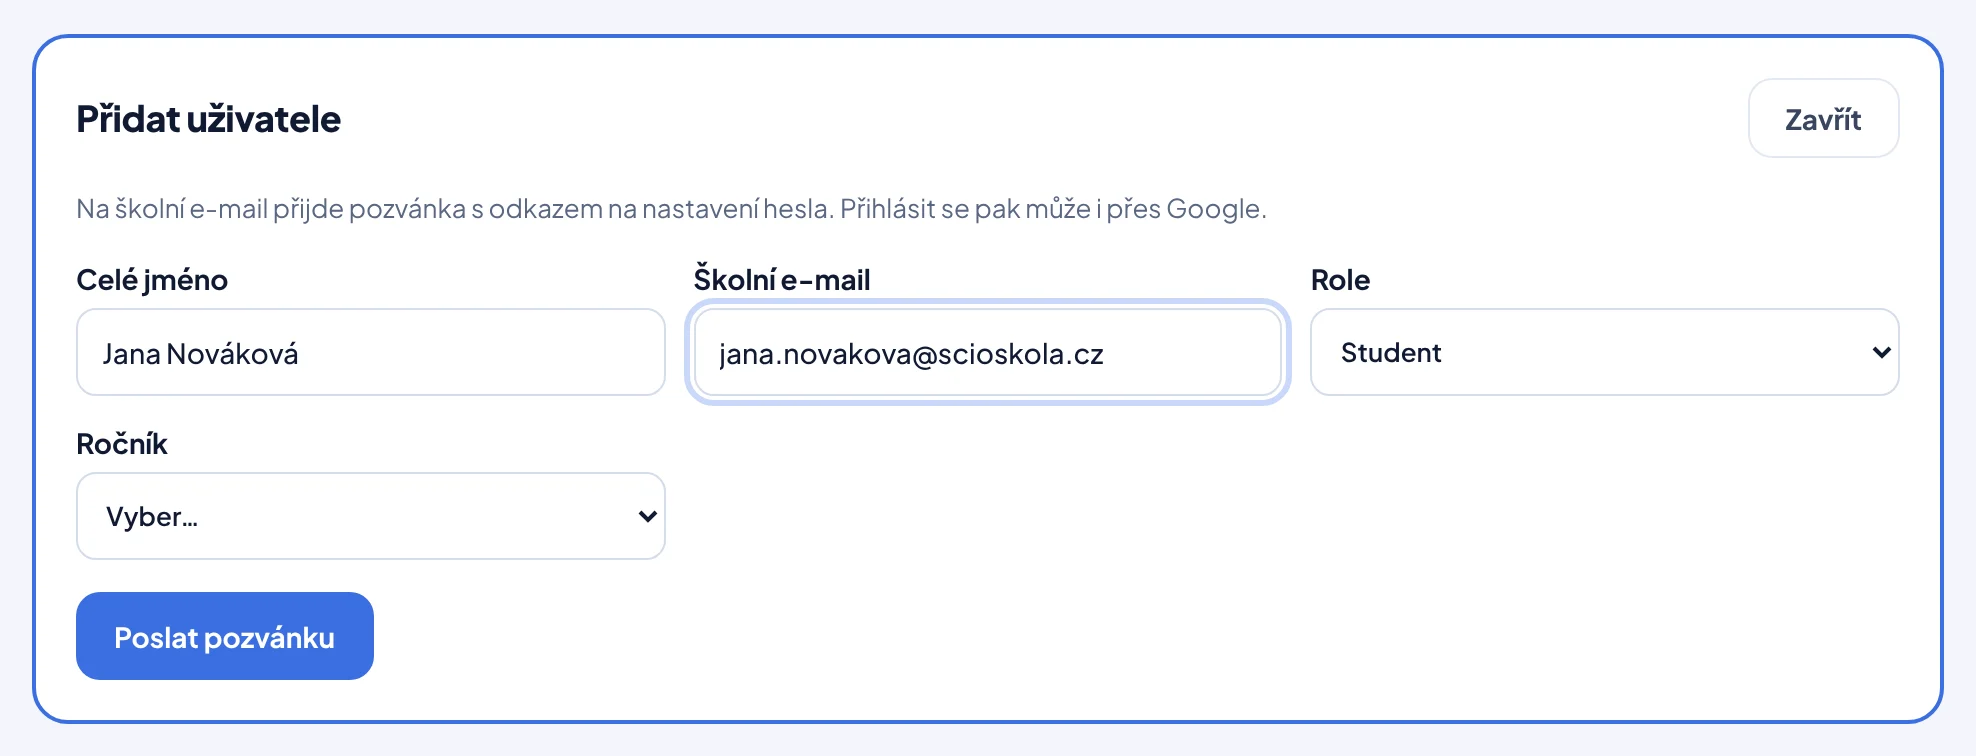
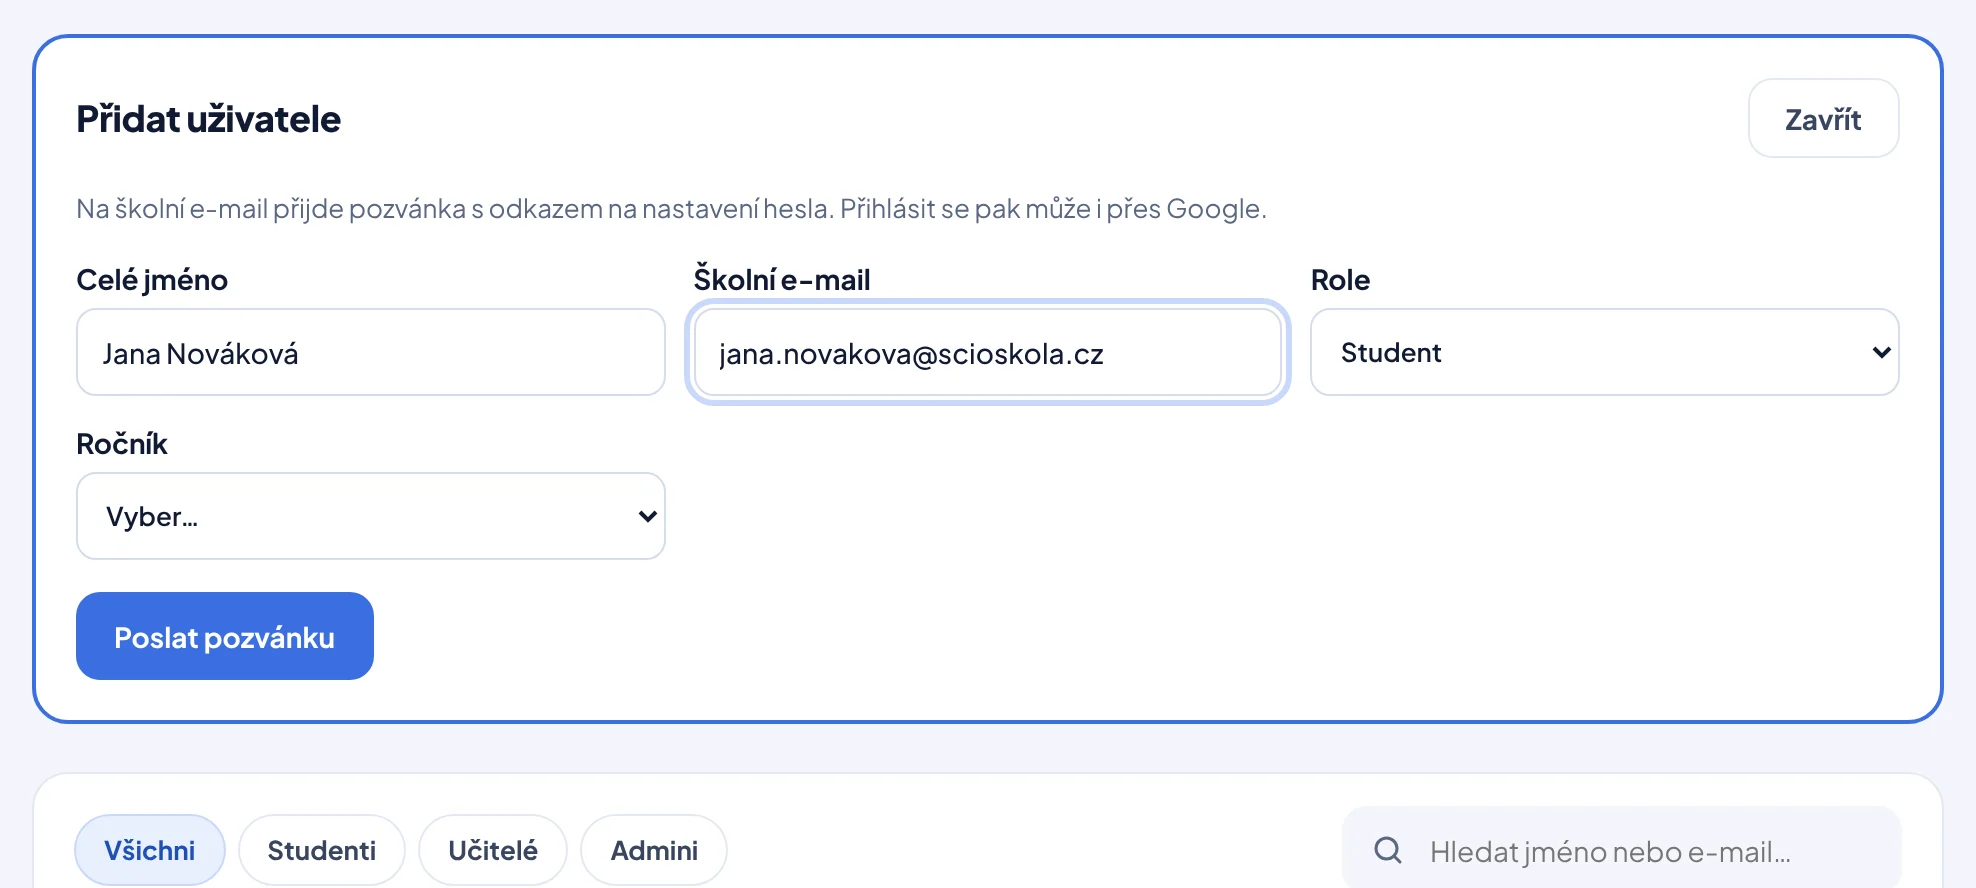
Nápověda: u výběru se rozbalí seznam možností a kurzor na možnost klikne
Claude-Session: https://claude.ai/code/session_01S4k3G4RvgMHKPCyowCDzNN

diff --git a/src/components/help/HelpShot.tsx b/src/components/help/HelpShot.tsx
@@ -31,6 +31,9 @@ export function HelpShot({ shot, label }: { shot: HelpShotData; label: string })
   const [typed, setTyped] = useState<number | null>(null);
   const last = shot.frames.length - 1;
   const typing = shot.action === "type" ? shot.typing : undefined;
+  const choices = shot.action === "select" ? shot.choices : undefined;
+  /** Výběr ze seznamu: rozbalený seznam, kurzor na možnosti, kliknutí na ni */
+  const [pick, setPick] = useState<null | "open" | "move" | "hover" | "press">(null);
 
   // Přehrává se jen krok, který je vidět.
   useEffect(() => {
@@ -68,6 +71,7 @@ export function HelpShot({ shot, label }: { shot: HelpShotData; label: string })
     at(0, () => {
       setFrame(0);
       setTyped(null);
+      setPick(null);
       setPhase("start");
     });
     at(T.show, () => setPhase("show"));
@@ -76,7 +80,20 @@ export function HelpShot({ shot, label }: { shot: HelpShotData; label: string })
     if (shot.target && shot.action !== "none") {
       // Kliknutí (vlnka) u každého kroku s cílem — i u „ukázat“, kde se obrazovka nemění.
       at(T.press, () => setPhase("press"));
-      at(T.result, () => setPhase("result"));
+      if (choices) {
+        // Klik do pole rozbalí seznam, kurzor dojede na možnost a klikne na ni.
+        const p = T.press;
+        at(p + 300, () => setPick("open"));
+        at(p + 650, () => setPick("move"));
+        at(p + 1600, () => setPick("hover"));
+        at(p + 1850, () => setPick("press"));
+        end = p + 2200;
+        at(end, () => {
+          setPick(null);
+          setFrame(last);
+          setPhase("result");
+        });
+      } else at(T.result, () => setPhase("result"));
       if (typing) {
         // Hotový snímek (pole s fokusem a celým textem) + překryv, ve kterém se
         // text píše po písmenech; nakonec překryv zmizí a zůstane skutečný text.
@@ -89,7 +106,7 @@ export function HelpShot({ shot, label }: { shot: HelpShotData; label: string })
         for (let i = 1; i <= len; i++) at(T.result + 250 + i * step, () => setTyped(i));
         end = T.result + 250 + len * step + 500;
         at(end, () => setTyped(null));
-      } else if (last > 0) {
+      } else if (last > 0 && !choices) {
         at(T.result, () => setFrame(last));
       }
     }
@@ -97,7 +114,7 @@ export function HelpShot({ shot, label }: { shot: HelpShotData; label: string })
     at(end + T.hold - 400, () => setPhase("end"));
     at(end + T.hold, () => setRun((r) => r + 1));
     return () => timers.forEach(clearTimeout);
-  }, [visible, ready, run, shot, last, typing]);
+  }, [visible, ready, run, shot, last, typing, choices]);
 
   const t = shot.target;
   const cx = t ? (t.x + t.w / 2) * 100 : 50;
@@ -106,11 +123,16 @@ export function HelpShot({ shot, label }: { shot: HelpShotData; label: string })
   const away = phase === "start" || phase === "show";
   // Po kliknutí se změní obrazovka (rozbalení) → zvýraznění zmizí. Při psaní
   // kurzor uhne, ať nezakrývá text.
-  const changed = (phase === "result" || phase === "hold") && shot.action === "click" && last > 0;
+  const changed = (phase === "result" || phase === "hold") && (shot.action === "click" || shot.action === "select") && last > 0;
+  // Rozbalený seznam pod polem (nativní seznam nejde vyfotit, kreslí se tady).
+  const listTop = t ? t.y + t.h + 0.01 : 0;
+  const onOption = pick === "move" || pick === "hover" || pick === "press";
+  const optX = t ? (t.x + Math.min(t.w * 0.25, 0.12)) * 100 : 0;
+  const optY = choices ? (listTop + (choices.chosen + 0.5) * choices.row) * 100 + 0.4 : 0;
   const aside = (phase === "result" || phase === "hold") && shot.action === "type" && t;
   const cursor = {
-    left: `${away ? Math.min(cx + 18, 92) : aside ? Math.min((t.x + t.w) * 100 + 2, 96) : cx}%`,
-    top: `${away ? Math.min(cy + 22, 92) : aside ? Math.min((t.y + t.h) * 100 + 4, 96) : cy}%`,
+    left: `${onOption ? optX : away ? Math.min(cx + 18, 92) : aside ? Math.min((t.x + t.w) * 100 + 2, 96) : cx}%`,
+    top: `${onOption ? optY : away ? Math.min(cy + 22, 92) : aside ? Math.min((t.y + t.h) * 100 + 4, 96) : cy}%`,
     opacity: phase === "start" || phase === "end" ? 0 : 1,
     // Na začátku kurzor skočí na výchozí místo neviditelně (bez přejezdu).
     ...(phase === "start" ? { transition: "none" } : {}),
@@ -177,9 +199,32 @@ export function HelpShot({ shot, label }: { shot: HelpShotData; label: string })
             aria-hidden="true"
           />
         )}
+        {choices && t && pick && (
+          <span
+            className={styles.choices}
+            aria-hidden="true"
+            style={{
+              left: `${t.x * 100}%`,
+              top: `${listTop * 100}%`,
+              width: `${t.w * 100}%`,
+              fontSize: `${choices.fontSize * 100}cqw`,
+            }}
+          >
+            {choices.options.map((o, i) => (
+              <span
+                key={i}
+                className={styles.choice}
+                style={{ height: `${choices.row * 100 * (shot.h / shot.w)}cqw` }}
+                data-on={i === (pick === "open" || pick === "move" ? choices.before : choices.chosen) || undefined}
+              >
+                {o}
+              </span>
+            ))}
+          </span>
+        )}
         {t && !still && shot.action !== "none" && (
           <span className={styles.cursor} style={cursor} aria-hidden="true">
-            {phase === "press" && <span className={styles.ripple} />}
+            {(phase === "press" || pick === "press") && <span key={pick ?? "pole"} className={styles.ripple} />}
             <svg viewBox="0 0 24 24" width="26" height="26">
               <path d="M5 3l14 8.5-6.2 1.4L9.6 19z" fill="#111A33" stroke="#fff" strokeWidth="1.6" strokeLinejoin="round" />
             </svg>

diff --git a/scripts/help-shots.ts b/scripts/help-shots.ts
@@ -33,6 +33,17 @@ export type ShotFrames = {
   action: "click" | "point" | "type" | "select" | "none";
   /** Psaní: text a vzhled obsahu pole, prohlížeč ho pak dopisuje po písmenech */
   typing?: HelpTyping;
+  /** Výběr: rozbalený seznam možností, který přehrávač nakreslí (nativní seznam nejde vyfotit) */
+  choices?: HelpChoices;
+};
+export type HelpChoices = {
+  options: string[];
+  /** Vybraná možnost a ta, která byla vybraná předtím */
+  chosen: number;
+  before: number;
+  /** Písmo v podílech šířky výřezu, výška řádku v podílech výšky výřezu */
+  fontSize: number;
+  row: number;
 };
 type RawTyping = { text: string; box: Box; fontSize: number; lineHeight: number; fontWeight: string; color: string; background: string; multiline: boolean };
 export type HelpTyping = {
@@ -163,6 +174,7 @@ async function shoot(page: Page, slug: string, index: number, shot: HelpShot): P
   const action = shot.action ?? (target ? "point" : "none");
   let kind: ShotFrames["action"] = "none";
   let rawTyping: RawTyping | null = null;
+  let rawChoices: { options: string[]; chosen: number; before: number; fontSize: number } | null = null;
   const grow = async () => {
     const box = await area.boundingBox().catch(() => null);
     areaBox = union(areaBox, box);
@@ -211,9 +223,24 @@ async function shoot(page: Page, slug: string, index: number, shot: HelpShot): P
     await grow();
   } else if (target && typeof action === "object" && "select" in action) {
     kind = "select";
+    rawChoices = await target.evaluate((el, want) => {
+      const sel = el as HTMLSelectElement;
+      const opts = Array.from(sel.options);
+      return {
+        options: opts.map((o) => o.text),
+        chosen: Math.max(0, opts.findIndex((o) => o.value === want || o.text === want)),
+        before: sel.selectedIndex,
+        fontSize: parseFloat(getComputedStyle(sel).fontSize) || 14,
+      };
+    }, action.select);
     await target.selectOption(action.select);
     await page.waitForTimeout(300);
     await grow();
+    // Místo pro rozbalený seznam pod polem, ať se vejde do výřezu.
+    if (tBox) {
+      const listH = Math.round(rawChoices.fontSize * 2) * rawChoices.options.length + 10;
+      areaBox = union(areaBox, { x: tBox.x, y: tBox.y + tBox.height, width: tBox.width, height: listH + 8 });
+    }
     shots.push(await grab(page));
   }
 
@@ -254,7 +281,19 @@ async function shoot(page: Page, slug: string, index: number, shot: HelpShot): P
         multiline: rawTyping.multiline,
       }
     : undefined;
-  return { w: clip.width, h: clip.height, frames, target: rel, action: kind, ...(typing ? { typing } : {}) };
+  const ROW = rawChoices ? Math.round(rawChoices.fontSize * 2) : 0;
+  const choices: HelpChoices | undefined = rawChoices
+    ? { options: rawChoices.options, chosen: rawChoices.chosen, before: rawChoices.before, fontSize: rawChoices.fontSize / clip.width, row: ROW / clip.height }
+    : undefined;
+  return {
+    w: clip.width,
+    h: clip.height,
+    frames,
+    target: rel,
+    action: kind,
+    ...(typing ? { typing } : {}),
+    ...(choices ? { choices } : {}),
+  };
 }
 
 async function main() {

diff --git a/src/components/help/help.module.css b/src/components/help/help.module.css
@@ -346,6 +346,38 @@
     opacity: 0;
   }
 }
+/* Rozbalený seznam u výběru (jako nativní seznam prohlížeče) */
+.choices {
+  position: absolute;
+  display: flex;
+  flex-direction: column;
+  padding: 4px 0;
+  background: #fff;
+  border: 1px solid #c4cad6;
+  border-radius: 6px;
+  box-shadow: 0 8px 22px rgba(17, 26, 51, 0.18);
+  font-family: var(--font);
+  color: #111a33;
+  animation: choicesIn 0.14s ease-out both;
+  pointer-events: none;
+  z-index: 1;
+}
+.choice {
+  display: flex;
+  align-items: center;
+  padding: 0 0.8em;
+  white-space: nowrap;
+}
+.choice[data-on] {
+  background: #3b6fe0;
+  color: #fff;
+}
+@keyframes choicesIn {
+  from {
+    opacity: 0;
+    transform: translateY(-4px);
+  }
+}
 /* Zvýraznění přesně na okraji prvku (nezakrývá okolní text), venku jen
    jemná pulzující záře. */
 .ring {
@@ -377,6 +409,7 @@
 }
 .cursor {
   position: absolute;
+  z-index: 2;
   width: 26px;
   height: 26px;
   margin: -3px 0 0 -5px;

diff --git a/src/lib/help/shots.ts b/src/lib/help/shots.ts
@@ -22,6 +22,8 @@ export type HelpShotData = {
     background: string;
     multiline: boolean;
   };
+  /** Výběr: možnosti rozbaleného seznamu (písmo v podílech šířky, řádek v podílech výšky výřezu) */
+  choices?: { options: string[]; chosen: number; before: number; fontSize: number; row: number };
 };
 
 const SHOTS = data as unknown as Record<string, (HelpShotData | null)[]>;

diff --git a/CLAUDE.md b/CLAUDE.md
@@ -107,4 +107,4 @@
 - Ankety ve skupinových chatech Zpráv (i v Campu): v nabídce „+“ položka Anketa (`ComposerPlus` prop `onPoll`, jen ve skupině) → `PollComposer` nad polem (otázka, 2–10 možností, „Jde vybrat víc možností“). RPC `create_chat_poll(conversation, question, options[], multiple)` založí zprávu „📊 otázka“ (náhled, notifikace) a k ní `chat_polls` (+ `chat_poll_options`); hlas `vote_chat_poll(poll, choices[])` nahradí moje volby (prázdné = zrušit), `close_chat_poll(poll, closed)` autor, správce skupiny, v Campu vyučující a admin. Hlasy `chat_poll_votes` (s `conversation_id` pro RLS a Realtime filtr), jména hlasujících vidí členové (title u možnosti). Smazaná zpráva s anketou anketu smaže (trigger `drop_poll_of_deleted`). Karta `PollCard` v `src/components/messages/Poll.tsx`, výpočty `src/lib/polls.ts`, prohlížeč `src/lib/poll-client.ts` (`usePollLive`), načítání `conversationPolls` v `data-communication.ts`. Ukázková anketa ve skupině `k-skupina`.
 - Odznaky (studenti i vyučující/admini — `badge_levels.audience` student/staff/all, v TS `audience` + `badgeForRole`; společné: Vítej, Zakladatel, Hlas školy, Iniciátor, Měním školu, Snílek, Anketář; učitelské v kategorii Výuka: Mentor = ohodnocené práce, Průvodce = vedené expedice, Mistr dílny = vedené ateliéry, Konzultant = vedené konzultace): katalog `src/lib/badges.ts` (názvy, popisy, ikony, kategorie Start/Učení/Dobrodružství/Komunita/Tajné, úrovně — musí sedět s tabulkou `badge_levels`), získané `user_badges` (úroveň 1–3, `seen_at` = viděná animace), vystavené `profiles.shown_badges` (max 3). Hodnoty počítá `badge_values(person)` (odevzdané, včas, plný počet, týmové, „druhý dech“ přes `review_returns` z triggeru na `reviews`, expedice/ateliéry podle `activity_ends_on`, různí vyučující kurzů, hlasy v návrzích, návrhy s prahem / schválené, vypsaná přání, konzultace, vyplněný profil, Zakladatel do 30. 6. 2027, Spolehlivý = skončené pololetí s ≥3 úkoly a vším „splněno“, Anketář = anketa s 20+ hlasujícími, Na vlně = 4 týdny v řadě vše včas). `refresh_my_badges()` přidá/zvýší (nikdy nesníží), pošle oznámení druhu `odznak` (`/profil#odznaky`) a vrátí neviděné; volá ho `BadgeCelebration` v layoutu (při otevření, při přechodu stránek nejvýš 1× za minutu) → animace (bez rozmazání pozadí a `router.refresh()` až po zavření, jinak se seká; vyklopení, lesk, jiskry, fronta, „Vystavit na profil“ = akce `showBadge`, reduced motion = jen objevení). `my_badges()` = sbírka s postupem (`BadgeCollection` ve vlastním profilu, `#odznaky`), `set_shown_badges`, `shown_badges_of(person)` (ostatní vidí jen vystavené, `ShownBadges` na kartě profilu — jen ikony, název, úroveň a popis v bublině při najetí, fokusu nebo klepnutí). Data `src/lib/data-badges.ts`, akce `src/lib/actions/badges.ts`, SVG `src/components/badges/BadgeIcon.tsx`, ukázková data `src/lib/demo-badges.ts` (animace v ukázce jednou za prohlížeč, `localStorage`).
 - Wrap „Tvůj rok v Campu“ (jako Spotify Wrapped, zvlášť pro studenty a pro vyučující/adminy): příběh ze snímků `WrapStory` (`src/components/wrap/`; telefon přes celou obrazovku, klepnutí vpravo/vlevo, podržení = pauza; počítač příběh uprostřed se šipkami a klávesami ← → mezerník Esc; snímek se přepne koncem animace ukazatele). Snímky bez dat se vynechají (`buildSlides` v `src/lib/wrap.ts`). Typ v Campu (`WRAP_TYPES`: studenti Výpravník, Tvůrce, Snílek, Hlas školy, Zvídavec, Pracant, Parťák, výchozí Táborník; vyučující Průvodce, Mistr dílny, Konzultant, Mentor, Hybatel, Architekt, Spojka, výchozí Opora Campu) určuje DB `wrap_type`: oblast, ve které člověk nejvíc předběhl ostatní ze své skupiny (`beat` ≥ 0,5; ukazatele `wrap_student_values` / `wrap_staff_values`). Poslední snímek = karta typu, „Uložit kartu“ ji nakreslí na canvas 1080×1350 (`src/lib/wrap-card.ts`; na telefonu sdílení, jinak stažení). Data `wrap_data()` od 1. 9. do teď (jen když wrap běží, admin vždy), stav `wrap_state()` (`wrap_settings.launch_at` — výchozí 20. 6. 8:00, `wrap_trials` zkouška jen na adminovi, `wrap_views` viděno v daném roce). Po spuštění se jednou sám otevře (`WrapLauncher` v layoutu), pak 14 dní pruh v profilu (`WrapBanner`). Správa → záložka Nástroje (`?tab=nastroje`, dřív Úložiště): `WrapTools` (datum spuštění, Přehrát můj wrap, ukázky pro studenta a učitele, Vyzkoušet spuštění na mně) a `StorageManager`. Akce `src/lib/actions/wrap.ts`, data `src/lib/data-wrap.ts` (ukázkový režim drží stav v cookie `sciocamp-demo-wrap`), ukázková data `src/lib/demo-wrap.ts`. Barvy příběhu jsou natvrdo (stejné ve světlém i tmavém režimu).
-- Nápověda (`/napoveda`, návod `/napoveda/[slug]`; ikona otazníku dole v menu vedle Nastavení): návody podle role (`audience` all/staff/admin, `guidesFor`) v `src/lib/help/guides.ts` — téma, kroky (nadpis, text) a u každého kroku `shot` = recept pro skript: stránka, oblast výřezu, cílový prvek (Playwright lokátor), akce klik/psaní/výběr/ukázat, `after` = snímek po kliknutí. Snímky vyrábí `npm run napoveda:snimky` (`scripts/help-shots.ts`, Playwright + sharp; aplikace musí běžet v ukázkovém režimu, adresa `NAPOVEDA_URL`, jeden návod `-- <slug>`): projde skutečný postup ukázkovým účtem, fotí celou obrazovku, výřez spočítá z oblasti před i po akci, poznámky „ukázkový režim“ ze snímků odstraní, uloží `public/napoveda/<slug>/<krok>-<n>.webp` (2×) a souřadnice do `src/lib/help/shots.json` (`shotFor`, `coverFor`). Po změně vzhledu nebo postupu, který návod ukazuje, snímky přegenerovat. Přehrávač `HelpShot` (`src/components/help/`): kurzor dojede k prvku, rámeček přesně na okraji prvku s pulzující září (u textových odkazů bez rámečku `bare` průsvitný zvýrazňovač pod textem), vlnka kliknutí, prolnutí na stav potom, při psaní snímek s hotovým textem a nad ním překryv `typing` (souřadnice a písmo pole ze skriptu), ve kterém se text píše po písmenech s kurzorem; dokola, jen když je krok vidět; reduced motion = výsledný snímek. Přehled `HelpIndex` s hledáním (náhled snímku na barevném podkladu a štítek `AudienceChip`: Všichni zeleně, Učitelé fialově, Admin modře), návody i v hledání na Domově (druh `help`). „Pomohl ti návod?“ → tabulka `help_feedback` (jedna odpověď na člověka a návod, admin vidí souhrn ve Správě → Nástroje, `HelpFeedbackTable`), akce `saveHelpFeedback`, data `src/lib/data-help.ts`.
+- Nápověda (`/napoveda`, návod `/napoveda/[slug]`; ikona otazníku dole v menu vedle Nastavení): návody podle role (`audience` all/staff/admin, `guidesFor`) v `src/lib/help/guides.ts` — téma, kroky (nadpis, text) a u každého kroku `shot` = recept pro skript: stránka, oblast výřezu, cílový prvek (Playwright lokátor), akce klik/psaní/výběr/ukázat, `after` = snímek po kliknutí. Snímky vyrábí `npm run napoveda:snimky` (`scripts/help-shots.ts`, Playwright + sharp; aplikace musí běžet v ukázkovém režimu, adresa `NAPOVEDA_URL`, jeden návod `-- <slug>`): projde skutečný postup ukázkovým účtem, fotí celou obrazovku, výřez spočítá z oblasti před i po akci, poznámky „ukázkový režim“ ze snímků odstraní, uloží `public/napoveda/<slug>/<krok>-<n>.webp` (2×) a souřadnice do `src/lib/help/shots.json` (`shotFor`, `coverFor`). Po změně vzhledu nebo postupu, který návod ukazuje, snímky přegenerovat. Přehrávač `HelpShot` (`src/components/help/`): kurzor dojede k prvku, rámeček přesně na okraji prvku s pulzující září (u textových odkazů bez rámečku `bare` průsvitný zvýrazňovač pod textem), vlnka kliknutí, prolnutí na stav potom, při psaní snímek s hotovým textem a nad ním překryv `typing` (souřadnice a písmo pole ze skriptu), ve kterém se text píše po písmenech s kurzorem; u výběru (`select`) nakreslí rozbalený seznam možností (`choices` ze skriptu — nativní seznam nejde vyfotit), kurzor na možnost klikne a pak se ukáže stav potom; skrytý přepínač (sr-only) skript nahradí jeho štítkem; dokola, jen když je krok vidět; reduced motion = výsledný snímek. Přehled `HelpIndex` s hledáním (náhled snímku na barevném podkladu a štítek `AudienceChip`: Všichni zeleně, Učitelé fialově, Admin modře), návody i v hledání na Domově (druh `help`). „Pomohl ti návod?“ → tabulka `help_feedback` (jedna odpověď na člověka a návod, admin vidí souhrn ve Správě → Nástroje, `HelpFeedbackTable`), akce `saveHelpFeedback`, data `src/lib/data-help.ts`.
